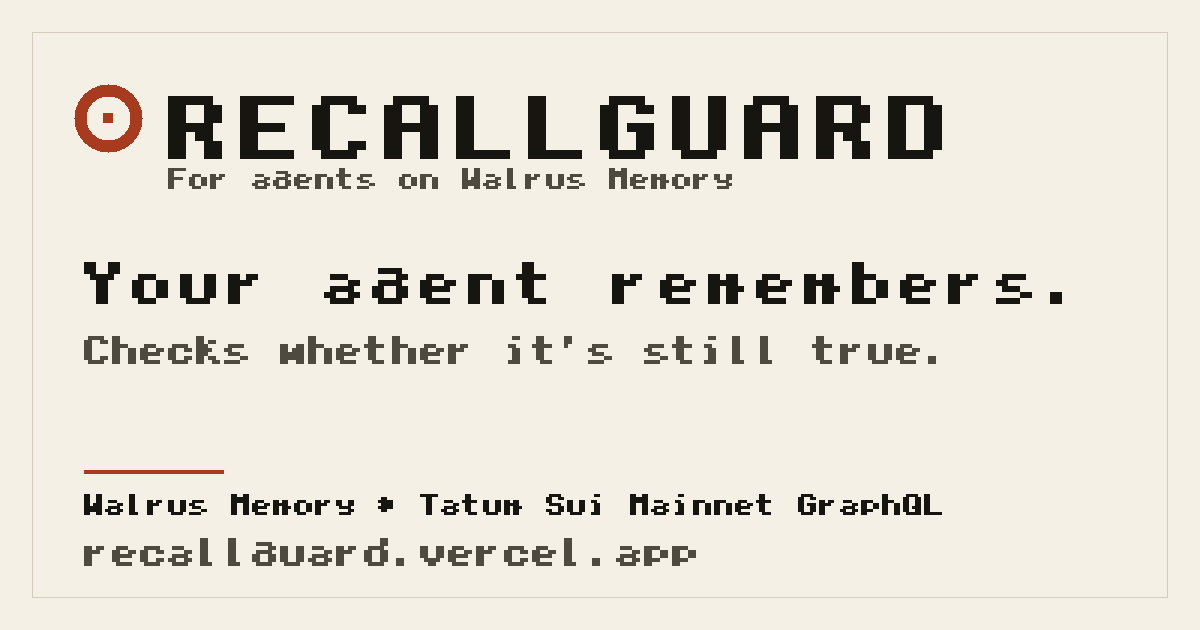
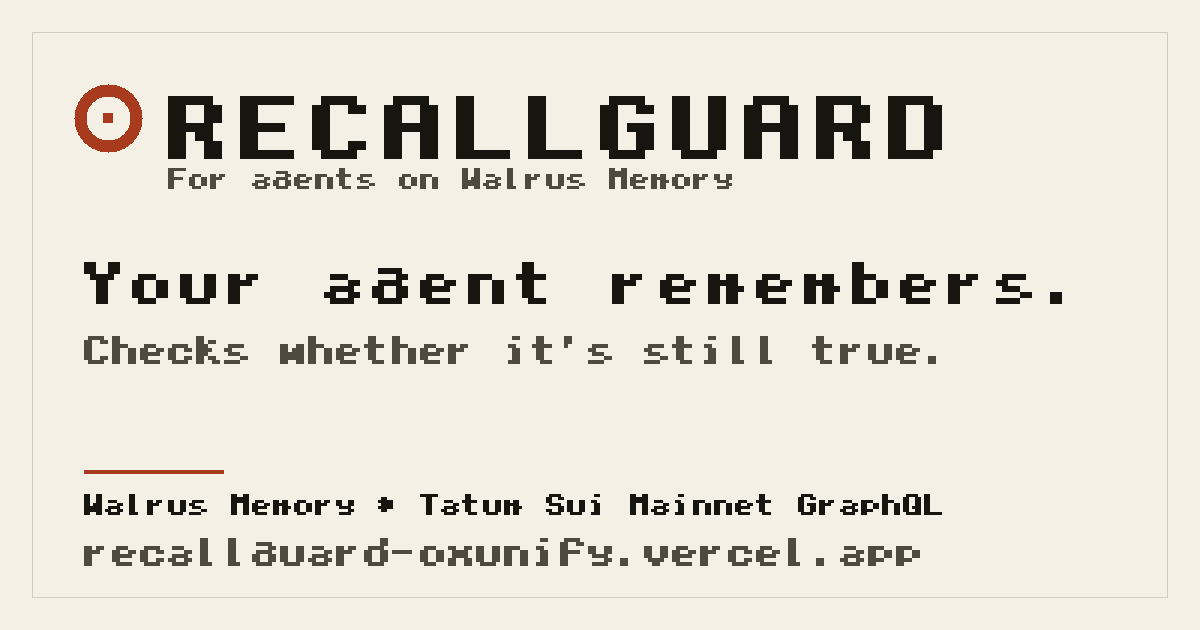
site: keep recallguard-oxunify.vercel.app as public origin

Changed region(s): [[0.3083, 0.8444, 0.7708, 0.9048]]

diff --git a/README.md b/README.md
@@ -14,7 +14,7 @@
 
 Agent memory today answers one question: _can an agent recall across sessions?_ RecallGuard answers the harder one: **when an agent recalls a mutable onchain fact, can you prove it is still true before it acts on it?** Every Walrus-backed memory is checked against live Sui state through Tatum before it can become an answer. Changed or unverifiable claims are withheld; the verified value is used instead, and corrections supersede the stale record. Built for the **Tatum x Walrus Total Recall** hackathon, **Track 02: Smart Agents for Real Life**.
 
-**[ Watch the demo ↗ ](#-demo)** &nbsp;·&nbsp; **[ Live site ↗ ](https://recallguard.vercel.app)** &nbsp;·&nbsp; **[ Blog post ↗ ](https://recallguard.vercel.app/blog.html)** &nbsp;·&nbsp; **[ How it works ↗ ](#how-it-works)** &nbsp;·&nbsp; **[ Run it locally ↗ ](#run-it-locally)**
+**[ Watch the demo ↗ ](#-demo)** &nbsp;·&nbsp; **[ Live site ↗ ](https://recallguard-oxunify.vercel.app)** &nbsp;·&nbsp; **[ Blog post ↗ ](https://recallguard-oxunify.vercel.app/blog.html)** &nbsp;·&nbsp; **[ How it works ↗ ](#how-it-works)** &nbsp;·&nbsp; **[ Run it locally ↗ ](#run-it-locally)**
 
 </div>
 
@@ -149,7 +149,7 @@ Tools (all read-only except the explicitly gated write):
 
 ## Evidence
 
-Everything is replayable from the committed snapshot; nothing below is asserted from adjectives. Open [CLAIMS.md](CLAIMS.md) for the full claim ledger, [docs/evidence/proof-snapshot.json](docs/evidence/proof-snapshot.json) for the raw record, and the [hosted static export](https://recallguard.vercel.app) for a self-contained read.
+Everything is replayable from the committed snapshot; nothing below is asserted from adjectives. Open [CLAIMS.md](CLAIMS.md) for the full claim ledger, [docs/evidence/proof-snapshot.json](docs/evidence/proof-snapshot.json) for the raw record, and the [hosted static export](https://recallguard-oxunify.vercel.app) for a self-contained read.
 
 - **22 recorded Mainnet memories** in namespace `freshness-recall`: 7 observations, 4 corrections, 2 policy records, 1 pre-fix adversarial specimen, 8 live round-trip seeds.
 - **306 checkpoint-stamped decisions.** In the ungated path the recorded log divides into **214 changed** answers, **16 unchanged-but-old** answers, **4 unverified** answers: a modelled counterfactual analysis of the recorded log, not production incidents.
@@ -274,8 +274,8 @@ npm run export              # static five-page export with secret scan
 
 | Resource | Link |
 |---|---|
-| Live site | <https://recallguard.vercel.app> |
-| Blog post | <https://recallguard.vercel.app/blog.html> |
+| Live site | <https://recallguard-oxunify.vercel.app> |
+| Blog post | <https://recallguard-oxunify.vercel.app/blog.html> |
 | Demo (2 min) | <https://youtu.be/16bsUTPpyqw> |
 | MCP reference | [docs/mcp.md](docs/mcp.md) |
 | 60-second judge guide | [docs/judge-60s.md](docs/judge-60s.md) |

diff --git a/docs/blog.md b/docs/blog.md
@@ -3,7 +3,7 @@
 *Tatum × Walrus Memory "Total Recall" hackathon · Track 02: Smart Agents for Real Life*
 
 **Watch the two-minute demo:** <https://youtu.be/16bsUTPpyqw>
-**Repo:** <https://github.com/unifyWeb3/recallguard> · **Live site:** <https://recallguard.vercel.app>
+**Repo:** <https://github.com/unifyWeb3/recallguard> · **Live site:** <https://recallguard-oxunify.vercel.app>
 
 An ops agent recalled last week that a delegate key was authorized. The account moved overnight.
 The agent woke, retrieved the memory, and reached for the payment workflow it should not touch,
@@ -23,7 +23,7 @@ recall_checked: obs-sui-clock-341742463
   verdict             WITHHELD: the old memory was not used as the answer
 ```
 
-Interactive: pick a recorded memory and get a verdict on the live site: <https://recallguard.vercel.app>
+Interactive: pick a recorded memory and get a verdict on the live site: <https://recallguard-oxunify.vercel.app>
 
 ## What the gate does, in four steps
 

diff --git a/docs/judge-60s.md b/docs/judge-60s.md
@@ -82,7 +82,7 @@ Open <http://127.0.0.1:8787>. The site is five static pages: the homepage (produ
 interactive demo), `/mcp.html` (tools + tested client configs), `/evidence.html` (every number
 labelled), `/docs.html` (quickstart → limitations), and `/blog.html` (the hackathon blog post). It
 makes no network requests and needs no credentials. The deployed copy lives at
-<https://recallguard.vercel.app>.
+<https://recallguard-oxunify.vercel.app>.
 
 If port 8787 is occupied:
 
